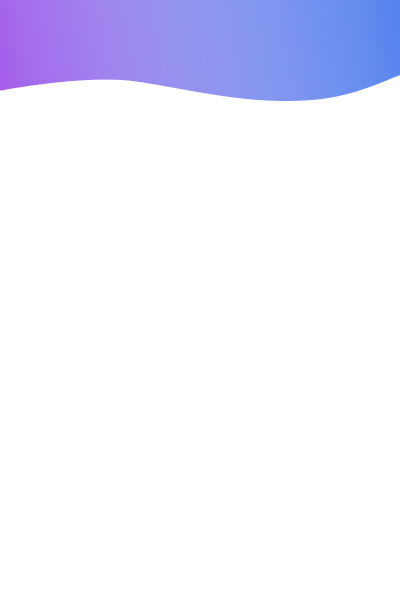
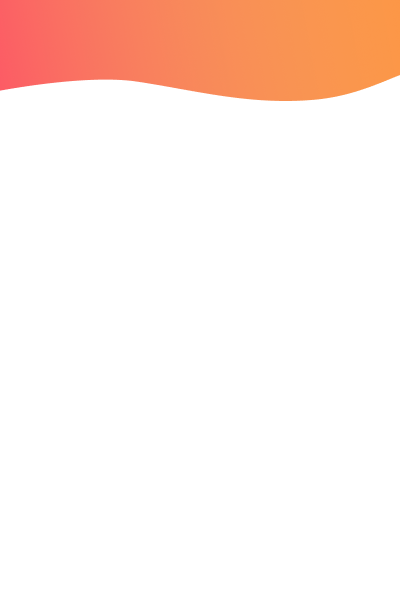
Changed name to "Inception Cloud Dragonfly Mod" and design to red-orange

Changed region(s): [[0.0, 0.0, 1.0, 0.18]]

diff --git a/src/main/java/net/inceptioncloud/installer/frontend/screens/WelcomeScreen.kt b/src/main/java/net/inceptioncloud/installer/frontend/screens/WelcomeScreen.kt
@@ -130,9 +130,23 @@ class WelcomeScreen : Screen(0)
 
         // Paragraph
         graphics2D.color = Color(50, 50, 50)
-        FontManager.drawCenteredString("Welcome",                           x + width / 2 + contentFlyIn.castToInt(), y + 160, 0 , 30, graphics2D)
-        FontManager.drawCenteredString("to the Inception Cloud Minecraft",  x + width / 2 + contentFlyIn.castToInt(), y + 195, 2, 24, graphics2D)
-        FontManager.drawCenteredString("Mod Installation Wizard!",          x + width / 2 + contentFlyIn.castToInt(), y + 225, 2, 24, graphics2D)
+        FontManager.drawCenteredString("Welcome", x + width / 2 + contentFlyIn.castToInt(), y + 160, 0, 30, graphics2D)
+        FontManager.drawCenteredString(
+            "to the Inception Cloud Dragonfly",
+            x + width / 2 + contentFlyIn.castToInt(),
+            y + 195,
+            2,
+            24,
+            graphics2D
+        )
+        FontManager.drawCenteredString(
+            "Mod Installation Wizard!",
+            x + width / 2 + contentFlyIn.castToInt(),
+            y + 225,
+            2,
+            24,
+            graphics2D
+        )
         FontManager.drawCenteredString("Press the button below to",         x + width / 2 + contentFlyIn.castToInt(), y + 270, 2, 24, graphics2D)
         FontManager.drawCenteredString("download and install the",          x + width / 2 + contentFlyIn.castToInt(), y + 300, 2, 24, graphics2D)
         FontManager.drawCenteredString("Minecraft Mod.",                    x + width / 2 + contentFlyIn.castToInt(), y + 330, 2, 24, graphics2D)

diff --git a/src/main/java/net/inceptioncloud/installer/frontend/objects/UIButton.kt b/src/main/java/net/inceptioncloud/installer/frontend/objects/UIButton.kt
@@ -1,5 +1,6 @@
 package net.inceptioncloud.installer.frontend.objects
 
+import net.inceptioncloud.installer.frontend.COLORS
 import net.inceptioncloud.installer.frontend.FontManager
 import net.inceptioncloud.installer.frontend.Screen
 import net.inceptioncloud.installer.frontend.transition.color.ColorTransition
@@ -26,22 +27,22 @@ open class UIButton(var text: String) : Screen()
     private var hovered: Boolean = false
 
     private var secondaryStart = ColorTransition.builder()
-            .start(Color(0xFFFFFF)).end(Color(0xa55eea))
+        .start(Color(0xFFFFFF)).end(COLORS.RED)
             .amountOfSteps(50).autoTransformator(ForwardBackward { hovered })
             .build()
 
     private var secondaryEnd = ColorTransition.builder()
-            .start(Color(0xFFFFFF)).end(Color(0x4b7bec))
+        .start(Color(0xFFFFFF)).end(COLORS.ORANGE)
             .amountOfSteps(50).autoTransformator(ForwardBackward { hovered })
             .build()
 
     private var primaryStart = ColorTransition.builder()
-            .start(Color(0xa55eea)).end(Color(0xFFFFFF))
+        .start(COLORS.RED).end(Color(0xFFFFFF))
             .amountOfSteps(20).autoTransformator(ForwardBackward { hovered })
             .build()
 
     private var primaryEnd = ColorTransition.builder()
-            .start(Color(0x4b7bec)).end(Color(0xFFFFFF))
+        .start(COLORS.ORANGE).end(Color(0xFFFFFF))
             .amountOfSteps(20).autoTransformator(ForwardBackward { hovered })
             .build()
 

diff --git a/src/main/java/net/inceptioncloud/installer/frontend/ScreenIndexManager.kt b/src/main/java/net/inceptioncloud/installer/frontend/ScreenIndexManager.kt
@@ -84,10 +84,10 @@ object ScreenIndexManager
             graphics2D.paint = GradientPaint(
                 startX.toFloat(),
                 y.toFloat(),
-                Color(0xA55EEA),
+                COLORS.RED,
                 (startX + width).toFloat(),
                 y.toFloat(),
-                Color(0x4B7BEC)
+                COLORS.ORANGE
             )
             graphics2D.fillOval(currentCircleX, y, OUTER_CIRCLE, OUTER_CIRCLE)
 
@@ -101,7 +101,14 @@ object ScreenIndexManager
             selectedX += ((currentIndex - 1) * (OUTER_CIRCLE + DISTANCE) + it.get() * (OUTER_CIRCLE + DISTANCE)).toInt()
         }
 
-        graphics2D.paint = GradientPaint(startX.toFloat(), y.toFloat(), Color(0xA55EEA), (startX + width).toFloat(), y.toFloat(), Color(0x4B7BEC))
+        graphics2D.paint = GradientPaint(
+            startX.toFloat(),
+            y.toFloat(),
+            COLORS.RED,
+            (startX + width).toFloat(),
+            y.toFloat(),
+            COLORS.ORANGE
+        )
         graphics2D.fillOval(selectedX - 2, y + borderRadius - 2, INNER_CIRCLE + 4, INNER_CIRCLE + 4)
     }
 

diff --git a/src/main/java/net/inceptioncloud/installer/MinecraftModInstaller.kt b/src/main/java/net/inceptioncloud/installer/MinecraftModInstaller.kt
@@ -85,7 +85,7 @@ object MinecraftModInstaller
         window = JFrame()
 
         window.isResizable = false
-        window.title = "Inception Cloud Minecraft Mod Installer"
+        window.title = "Dragonfly Mod Installer"
         window.iconImage = ImageIO.read(javaClass.getResourceAsStream("/icon_32x.png"))
         window.defaultCloseOperation = JFrame.EXIT_ON_CLOSE
 

diff --git a/src/main/java/net/inceptioncloud/installer/frontend/COLORS.kt b/src/main/java/net/inceptioncloud/installer/frontend/COLORS.kt
@@ -1,0 +1,16 @@
+package net.inceptioncloud.installer.frontend
+
+import java.awt.Color
+
+object COLORS {
+
+    /**
+     * Red part of the design
+     */
+    val RED = Color(0xfc5c65)
+
+    /**
+     * Orange part of the design
+     */
+    val ORANGE = Color(0xfd9644)
+}
